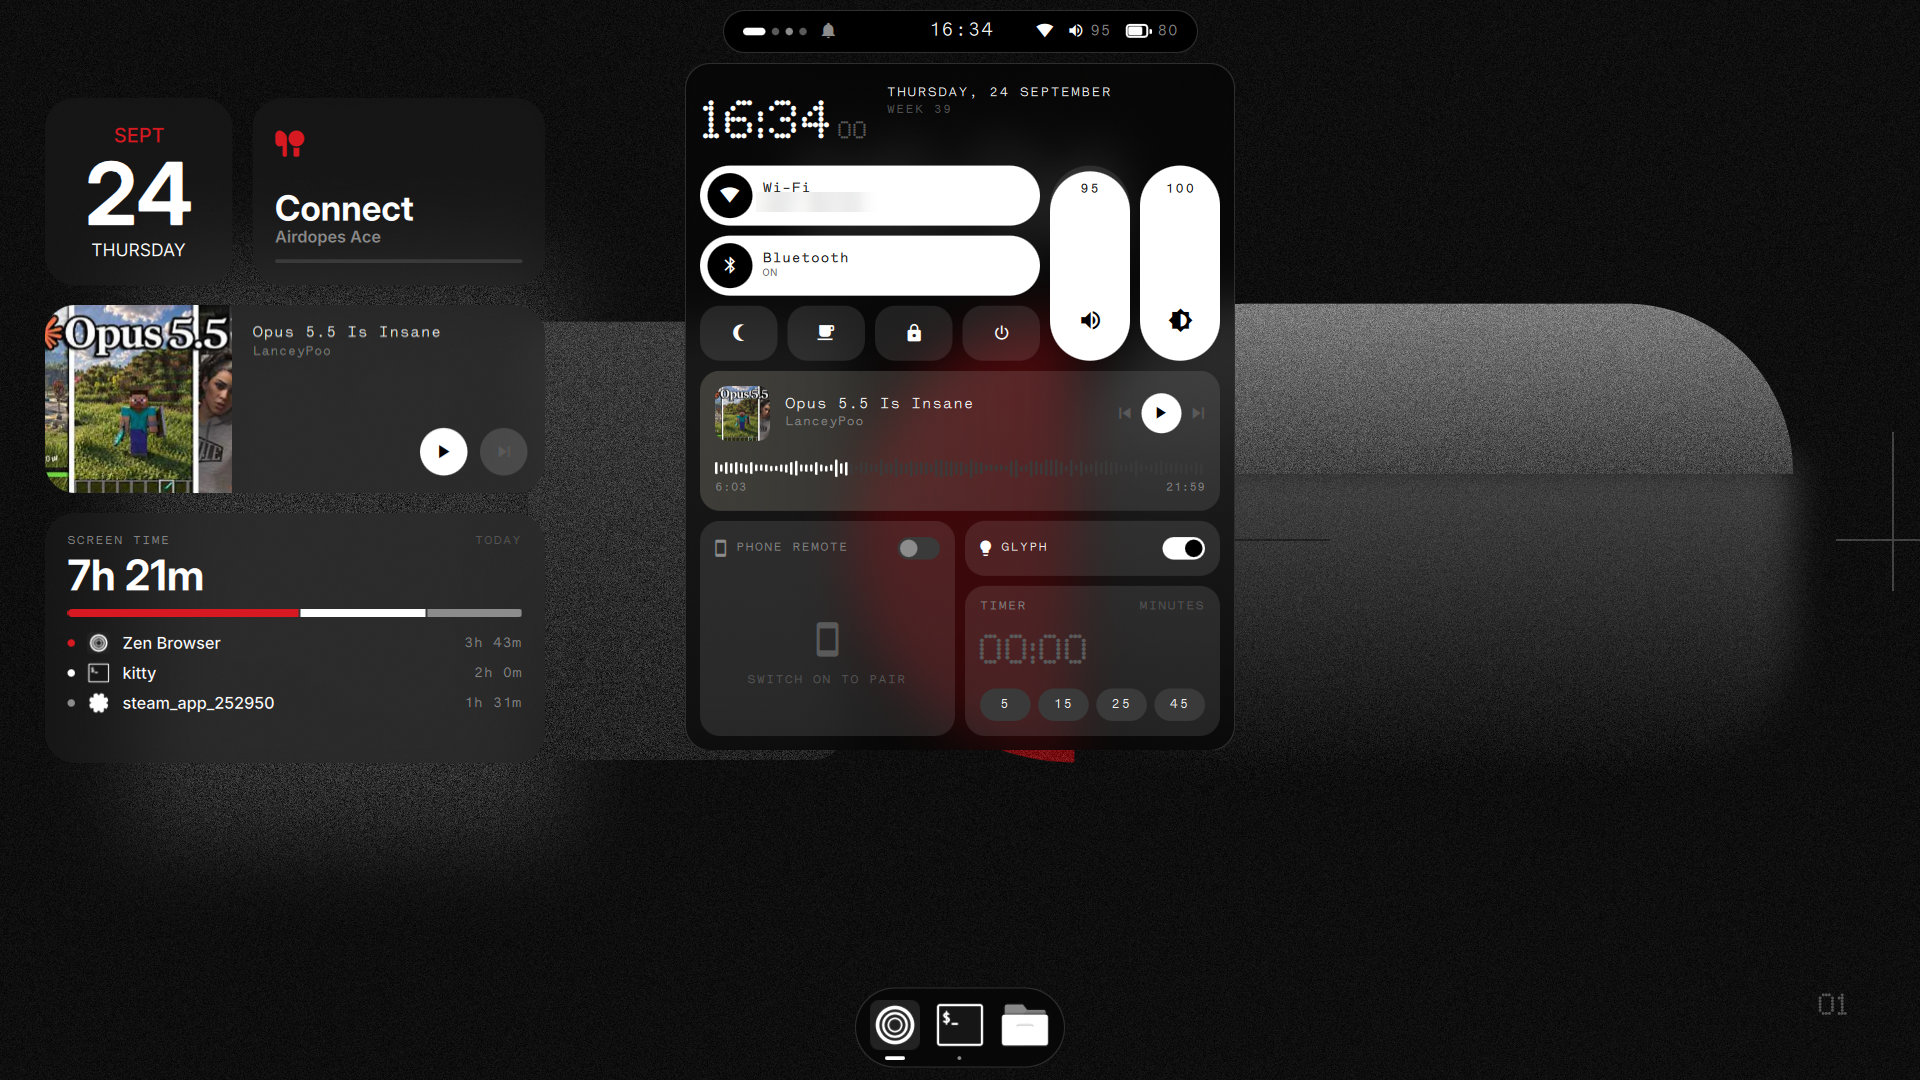
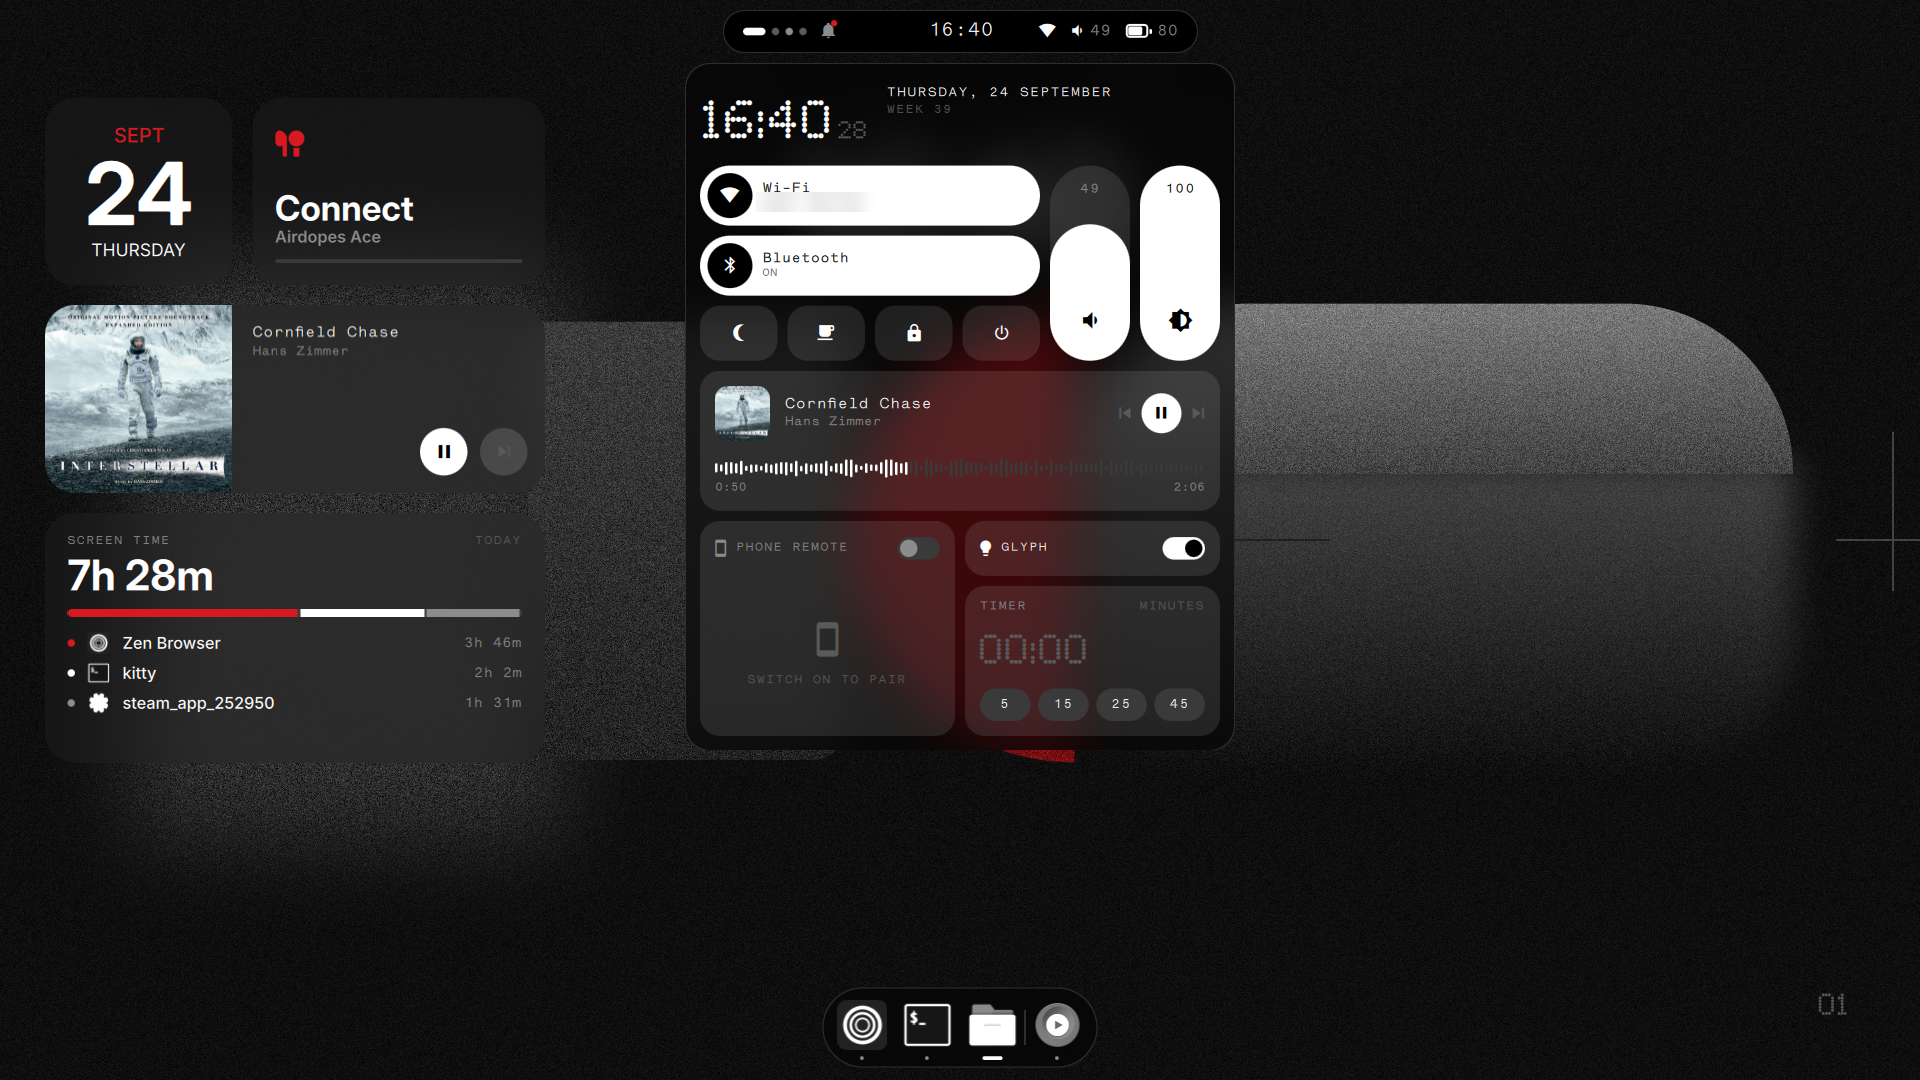
Refresh screenshots, add lock screen and notifications to the gallery

diff --git a/README.md b/README.md
@@ -9,9 +9,11 @@ here layers on top of it. Only five upstream files are touched, and those change
 
 ![Desktop: pill bar, calendar / bluetooth / media / screen-time widgets, Ndot clock, auto-hide dock](screenshots/desktop.png)
 
-| Control center (click the clock) | Power menu (Ctrl+Alt+P) |
+| Control center (click the clock) | Notifications (click the bell) |
 | --- | --- |
-| ![Control center](screenshots/control-center.png) | ![Power menu](screenshots/power-menu.png) |
+| ![Control center](screenshots/control-center.png) | ![Notifications](screenshots/notifications.png) |
+| **Lock screen** | **Power menu (Ctrl+Alt+P)** |
+| ![Lock screen](screenshots/lock-screen.png) | ![Power menu](screenshots/power-menu.png) |
 
 ## What is in here
 
